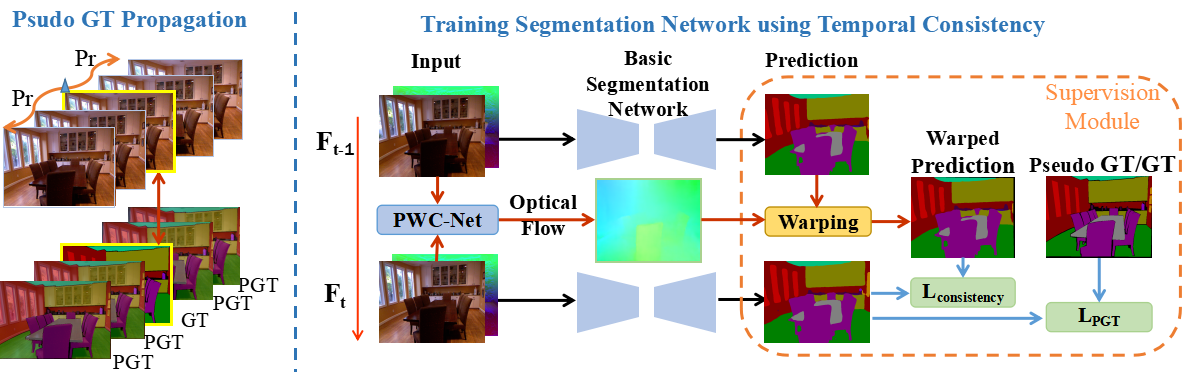
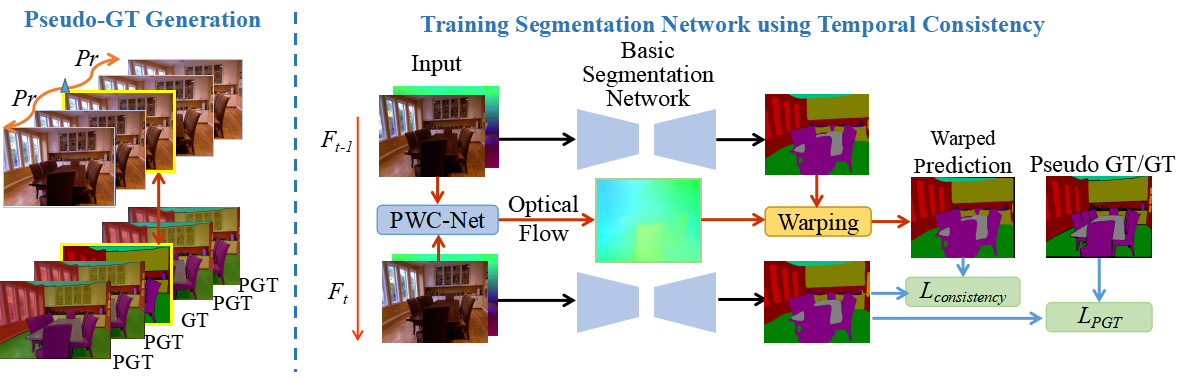
modified

diff --git a/Introduction.tex b/Introduction.tex
@@ -41,14 +41,14 @@ As the predictions from RefineNet \cite{Lin2017} shown in Fig.~\ref{fig:Consist}
 }
 
 \begin{figure*}[htbp]
-	\vspace{-0.6cm}
+%	\vspace{-0.6cm}
 	\setlength{\abovecaptionskip}{0pt} 
 	\setlength{\belowcaptionskip}{10pt}
 	\centering
 	\centering
 	\includegraphics[scale=0.57]{figure/Pipeline.png}
-	\vspace*{-0.8cm} 
-	\caption{The diagram of our proposed methods. The left one is pseudo ground truth propagation. We propagate the GT from labeled frame to their adjacent frames by image warpping. The right one is flow chart of training segmentation network using temporal consistncy. It mainly consists of three steps: 1) The current frame $F_t$ passes through a basic semantic segmentation network to generate the prediction  2) Warpping the prediction of previous frame $F_{t-1}$ depends on optical flow generated from PWC-Net \cite{Sun2018} 3) Warpped prediction of $F_{t-1}$ and generated PGT joint action on the network by $L_{consistency}$ and $L_{PGT}$ respectively.}
+%	\vspace*{-0.8cm} 
+	\caption{The diagram of our proposed methods. The left one is pseudo ground truth generation. We propagate the GT from labeled frame to their adjacent frames by image warpping. The right one is flow chart of training segmentation network using temporal consistncy. It mainly consists of three steps: 1) The current frame $F_t$ passes through a basic semantic segmentation network to generate the prediction  2) Warpping the prediction of previous frame $F_{t-1}$ depends on optical flow generated from PWC-Net \cite{Sun2018} 3) Warpped prediction of $F_{t-1}$ and generated PGT joint action on the network by $L_{consistency}$ and $L_{PGT}$ respectively.}
 	\label{fig:Pipeline}
 	\vspace*{-0.2cm}
 \end{figure*}
@@ -64,31 +64,28 @@ A novel long short-term memorized context fusion (LSTM-CF) model is proposed \ci
 % 
 Cheng \emph{et al.} \cite{Cheng2017} rethink the relationship between RGB images and depth, and propose a locality-sensitive deconvolution network to refine object boundaries of segmentation result as well as a gated fusion layer to combine features of two modes.
 %
-Park \emph{et al.} \cite{Park2017} worked on how to fuse the multi-level RGB-D CNN features.
+Park \emph{et al.} \cite{Park2017} work on fusing the multi-level RGB-D CNN features.
 %
-Therefore, they proposed a multi-modal feature fusion blocks and added it to RefineNet \cite{Lin2017}.
-%
-Although adding depth information improves the performance of single image segmentation, the predictions between consecutive frames are jumped due to the temporal relationship is not taken into account.
-%
-Fig.~\ref{fig:Consist} shows the "jumping" problem.
+They propose a multi-modal feature fusion blocks and added it to RefineNet \cite{Lin2017}.
+
 
 \textbf{we do not solve the jumping problem.}
 
 {\bf Multi-task Learning.} 
 %
-Eigen and Fergus \cite{Eigen2015} addressed three different tasks such as depth prediction, surface normal estimation, and semantic labeling using a single multiscale convolutional netwrok. 
+Eigen and Fergus \cite{Eigen2015} address three different tasks such as depth prediction, surface normal estimation, and semantic labeling using a single multiscale convolutional netwrok. 
 %
-Prediction-and-distillationn network (PAD-Net) is another work\cite{Xu2018} which predicts a set of intermediate tasks including depth, surface normal, semantic and contour estimation, and then using the predictions from these tasks as multi-modal disitillation modules' inputs for final tasks.  
+Prediction-and-distillationn network (PAD-Net)\cite{Xu2018} predicts a set of intermediate tasks including depth, surface normal, semantic and contour estimation, and then using the predictions from these tasks as multi-modal disitillation modules' inputs for final tasks.  
 %
-A novel joint Task-Recursive Learning (TRL) \cite{Zhang2018} framework for semantic segmentation and depth estimation was proposed by Zhang. 
+A novel joint Task-Recursive Learning (TRL) \cite{Zhang2018} framework for semantic segmentation and depth estimation was proposed by Zhang \emph{et al}. 
 %
 In TRL, two tasks are alternately processed in the decoder to imporve each other.
 % 
 Jiao \emph{et al.} \cite{Jiao2018} presented an attention-driven loss for network supervision and a synergy network to learn the information sharing strategies. 
 %
-By combining two tasks as well as proposed attention-driven loss, the performance of depth estimation and semantic segmentation are mutuallty improved.
+By combining two tasks as well as proposed attention-driven loss, the performance of two tasks are mutuallty improved.
 %
-Although the multi-task learning method improves the segmentation results, it needs supplementary information or even data from other tasks, and the overall process is more complex.
+Although the multi-task learning methods improve the segmentation results, it needs a lot of supplementary information or even dense-annotated data from other tasks.
 
 Above approaches provide a lot of novel ideas to improve the segmentation results, but the ability and performance of these methods are greatly limited by the limited dense-annotated training data.
 %
@@ -108,4 +105,4 @@ Our methodology will be introduced firstly.
 %
 Then, we will report the extensive experimental results as well as analyses. 
 %
-Finally we will draw a conclusion and propose our future work.
+Finally we will draw a conclusion.

diff --git a/methodology.tex b/methodology.tex
@@ -40,13 +40,13 @@ Although PGT includes noise samples, the diversity of training set are also enri
 
 {\bf Training Segmentation Network using Temporal Consistency.}
 %
-Fig.~\ref{fig:Pipeline} illustrates the overall of our proposed trainning policy, which mainly consist of three steps.
+Fig.~\ref{fig:Pipeline} illustrates the overall of our proposed trainning policy, which mainly consists of three steps.
 %
 First, the current frame is passed through the basic segmentation network to generate prediction.
 %
 Second, the warp operation is used to warp the previous frame prediction to align with current frame by optical flow.
 %
-Finally, the warped previous frame prediction plays a role of a supervisory item of supervision module to constrain the consistency of prediction results of neighboring image frames.
+Finally, the warped previous frame prediction plays a role of a supervisory item to constrain the consistency of prediction results of neighboring image frames.
 %
 Meanwhile, the PGT of current frame as the other supervisory item is introduced to guarantee that the prediction results are as accurate as possible.
 
@@ -85,24 +85,13 @@ And adding a Argmax layer to extract the warped prediction ${W_{t-1}}$ of previo
 W_{t-1}=Argmax(\hat{S}_{t-1})
 \end{equation}
 
-\begin{figure}[htpb]
-	\centering
-	\includegraphics[scale=0.61]{figure/PGT.png}
-	\vspace*{-0.6cm} 
-	\caption{Qualitative results of our PGT. $F_t$ and $F_{t+1}$ are two adjacent frames. The GT of $F_t$ is provided by NYU-v2 dataset. We propogate the annotated label of $F_{t}$ to $F_{t+1}$ and generate the corresponding PGT. The right side shows details of good quality pseudo labels and noisy pseuso labels respectively.}
-	\label{fig:PGT}
-	\vspace*{-0.35cm} 
-\end{figure}
-
-Two supervisory items constitute our supervision module.
+Two supervisory items act on the Network Together.
 %
 One is to monitor the prediction result of the current frame to be consistent with the PGT.
 %
 The other is for constraining consistency of prediction results between frames by an additional loss function called consistentency loss. 
 %
-To leverage two items of supervision module, we propose a trust parameter ${\lambda}$ for weighing two losses. 
-%
-In addition, the trust parameter ${\lambda}$ is also used to represent what kind of supervisory item the model trust in.
+To leverage two supervisory items, we use a parameter ${\lambda}$ for weighing two losses. 
 %
 Our total loss function is defined as follows.
 \begin{equation}

diff --git a/Experiments.tex b/Experiments.tex
@@ -1,9 +1,19 @@
 \section{EXPERIMENTS AND EVALUATION}
 \label{sec:exper}
+
+\begin{figure}[tpb]
+	\centering
+	\includegraphics[scale=0.61]{figure/PGT.png}
+	%	\vspace*{-0.6cm} 
+	\caption{Qualitative results of our PGT. $F_t$ and $F_{t+1}$ are two adjacent frames. The GT of $F_t$ is provided by NYU-v2 dataset. We propogate the annotated label of $F_{t}$ to $F_{t+1}$ and generate the corresponding PGT. The right side shows details of good quality pseudo labels and noisy pseuso labels respectively.}
+	\label{fig:PGT}
+	%	\vspace*{-0.35cm} 
+\end{figure}
+
 \begin{figure*}[!th]
 	\centering
-	\includegraphics[scale=0.6]{figure/Result.png}
-	\caption{Qualitative results on the NYUD—v2 dataset. For the secne image in each row, we show: the RGB image; the ground truth of semantic segmentation; the result of RefineNet; the result of RDFNet; the result of trained by $L_{Consistency}$; the result of trained by $L_{PGT}$ and the result of trained by two losses. Our method predicts more accurate and complete segmentation results.}
+	\includegraphics[scale=0.65]{figure/Result.png}
+	\caption{Qualitative results on the NYUD—v2 dataset. For the secne image in each row, we show: the RGB image; the ground truth of semantic segmentation; the result of RDFNet; the result of trained by $L_{Consistency}$; the result of trained by $L_{PGT}$ and the result of trained by two losses. Our method predicts more accurate segmentation results.}
 	\label{fig:VisResult}
 \end{figure*}
 To demonstrate the validity of proposed appoaches for indoor scene segmentation, we conduct the experiments on a publicly available benchmark dataset (NYUD-v2) which provides many sequences of RGBD data. 
@@ -31,8 +41,8 @@ Following previous works
 \cite{Eigen2015,Gupta2014,Kendall2015,Lin2016,Lin2017,Li2016,Cheng2017,Park2017,Xu2018,Zhang2018,Jiao2018}, we use several quantitative metrics to evaluate our semantic segmentation results, including pixel 
 accuracy, mean accuracy and mean IOU. 
 %
-\begin{table}[!htbp]
-	\vspace{-0.4cm}
+\begin{table}[tb]
+%	\vspace{-0.4cm}
 	\centering
 	\caption{Comparsions of different network architectures on NYU v2 Dataset.}
 	\begin{tabular*}{8.7cm}{lllll}

diff --git a/Conclusion.tex b/Conclusion.tex
@@ -1,4 +1,4 @@
-\section{Conclusion And Future Work}
+\section{Conclusion}
 \label{sec:conclusion}
 In this paper, we have introduced two relatively simple but very effiective approaches for indoor scene semantic segmentation.  
 %
@@ -13,9 +13,9 @@ better than the baseline model.
 %
 And the mean accuracy has been significantly improved.
 
-{\bf Future Work.} As we said in the discussion, the imbalance of sample classes results in the error of segmentation results. 
+%{\bf Future Work.} As we said in the discussion, the imbalance of sample classes results in the error of segmentation results. 
 %
-Hence, our future work is still based on the data itself.
+%Hence, our future work is still based on the data itself.
 %
-One direction is how to balance sample categories, and the other is how to make more efficient and reasonable use of unlabeled video data.
+%One direction is how to balance sample categories, and the other is how to make more efficient and reasonable use of unlabeled video data.
 
